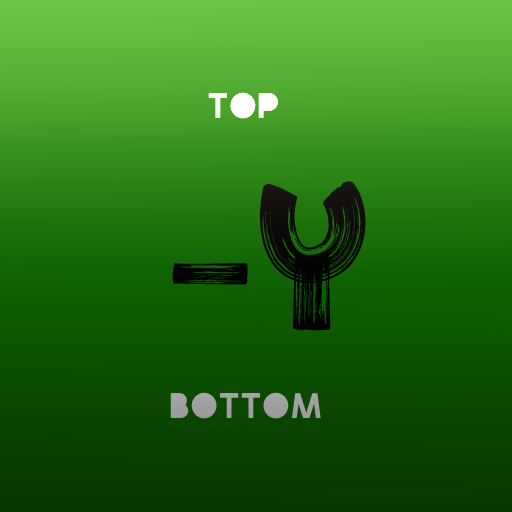
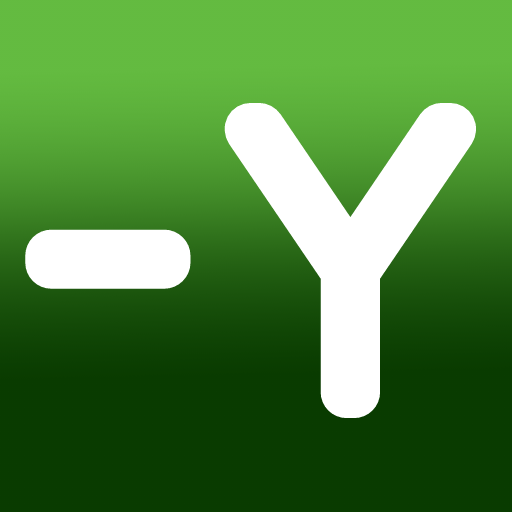
Fix orientation of images

Changed region(s): [[0.0, 0.1562, 1.0, 0.8438]]

diff --git a/InteriorMapping/Main.cpp b/InteriorMapping/Main.cpp
@@ -42,7 +42,7 @@ int Main::Run()
 	glGenTextures(1, &textureID);
 	glBindTexture(GL_TEXTURE_CUBE_MAP, textureID);
 
-	//stbi_set_flip_vertically_on_load(true);
+	stbi_set_flip_vertically_on_load(true);
 
 	static std::vector<std::string> textureImages = {
 		"0.png",
